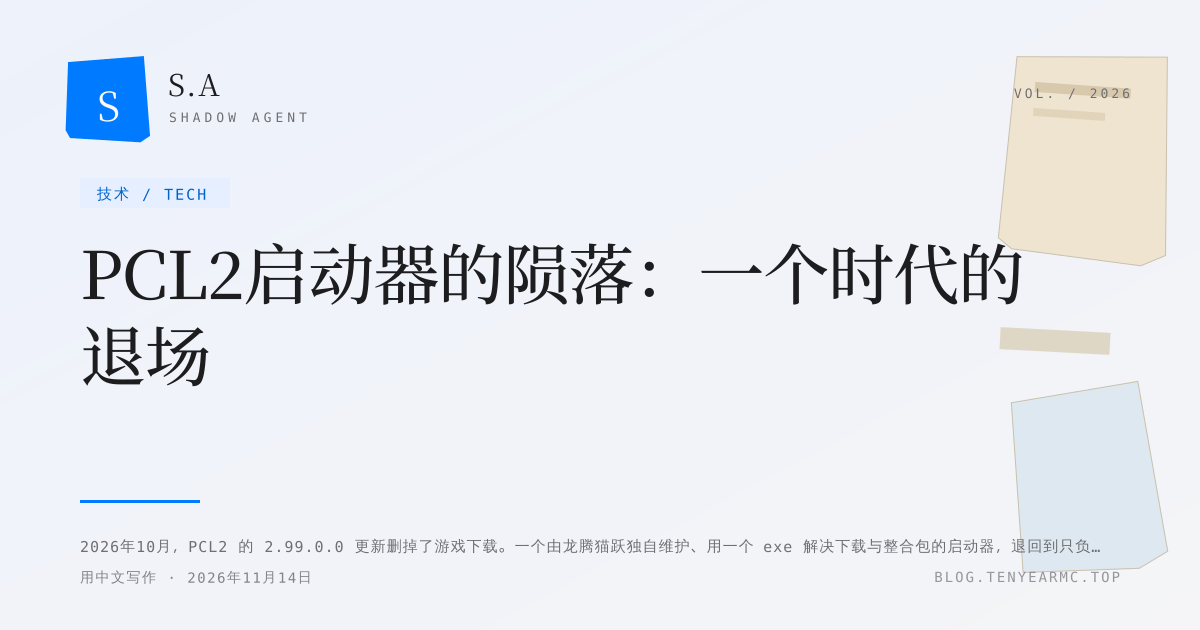
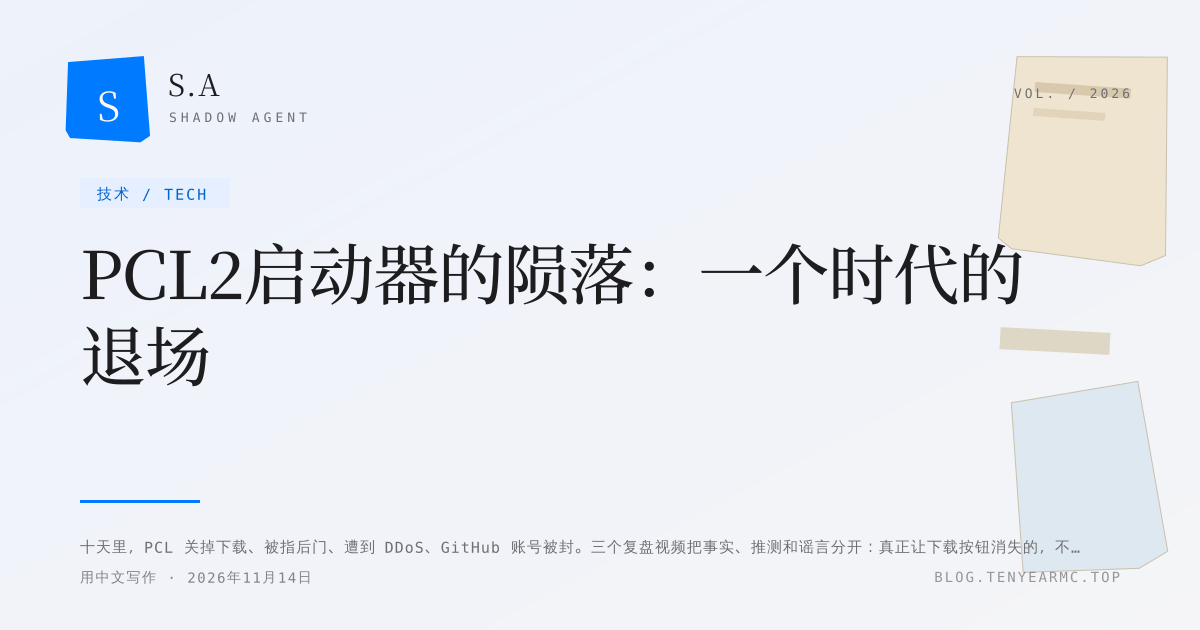
rewrite: 综合三个复盘视频重写 PCL2 事件
补齐十天时间线、法规依据、后门演示与逐帧反驳、DDoS/封号/支付异常，并把事实、推断和谣言分开。

Changed region(s): [[0.0617, 0.8444, 0.925, 0.8746]]

diff --git a/src/data/taxonomy.ts b/src/data/taxonomy.ts
@@ -41,6 +41,9 @@ const knownTags: Record<string, string> = {
   PCL2: 'pcl2',
   启动器: 'launcher',
   社区: 'community',
+  网络出版: 'online-publishing',
+  合规: 'compliance',
+  谣言: 'rumor',
   英伟达: 'nvidia',
   黄仁勋: 'jensen-huang',
   公司治理: 'governance',

diff --git a/src/content/posts/pcl2-launcher.md b/src/content/posts/pcl2-launcher.md
@@ -1,44 +1,145 @@
 ---
 title: PCL2启动器的陨落：一个时代的退场
-description: 2026年10月，PCL2 的 2.99.0.0 更新删掉了游戏下载。一个由龙腾猫跃独自维护、用一个 exe 解决下载与整合包的启动器，退回到只负责启动。
+description: 十天里，PCL 关掉下载、被指后门、遭到 DDoS、GitHub 账号被封。三个复盘视频把事实、推测和谣言分开：真正让下载按钮消失的，不是某一个举报，而是一条一直在那里的法规。
 date: 2026-11-14
+updated: 2026-11-15
 lang: zh
 category: tech
 tags:
   - Minecraft
   - PCL2
   - 启动器
-  - 社区
+  - 网络出版
+  - 合规
+  - 谣言
 series: 告别练习
 seriesOrder: 2
 featured: false
 coverWord: PCL2
 ---
 
-2026年10月20日，PCL2 更新到 2.99.0.0。
+2026年10月20日下午3点01分，PCL 更新到 2.99.0.0。
 
-更新日志的第一条很短：为遵守相关法律法规，不再提供游戏本体下载功能。几天后，2.99.0.1 把下载相关入口也隐藏了。作者龙腾猫跃在说明里写，这不是暂时下架。
+更新说明只有两行。第一行是：为遵守相关法律法规，PCL 不再提供《我的世界》下载功能。第二行是：非常抱歉 qwq。
 
-对不玩 Minecraft 的人来说，这只是一行版本说明。对国内一批 Java 版玩家来说，那个用了很多年的“下载”标签页，没了。
+那个下午之后，国内一批 Java 版玩家打开启动器，发现下载页没了。
 
-PCL 的全称是 Plain Craft Launcher。它是一个 Windows 上的第三方启动器，免费、开源，主要由龙腾猫跃一个人维护。它最早被记住，是因为轻：一个 exe，双击就能跑，不用安装，没有捆绑，没有弹窗广告。它被记住的第二个原因，是下载。
+这不是一次孤立的关停。把三个复盘视频的时间线拼在一起，十天里发生的事，比“家长举报”四个字复杂得多。
 
-在很长一段时间里，国内玩家打开 PCL2 的流程是固定的：下载一个 exe，双击，等它自己更新，然后在下载页选一个版本。Java 不用自己装，Forge、Fabric、NeoForge 不用自己找，模组依赖它会提示，整合包可以一键导入，崩溃了还有分析。它把“玩 Minecraft”之前那一堆麻烦事，收进了一个窗口。
+## 先把十天摊开
 
-这些东西今天听起来像基础设施。但在当时，它们不是。官方启动器需要微软账户和正版授权，网络也不总是顺畅。第三方启动器填补了这段路。PCL2 不是唯一一个，却是最像“一个 exe 解决所有问题”的那个。
+10月16日，PCL 2.14.0.0 的更新记录里已经有一行字：出于合规考虑，暂时移除 PCL 特供版本下载。
 
-2026年10月，社区里开始流传一个说法：有未成年人在某个私服充值，家长举报了私服，也顺手举报了启动器。这个说法没有被官方证实。能确认的是结果：PCL2、HMCL、ZL 等国内第三方启动器相继关闭了游戏本体下载通道；HMCL 在 GitHub 上对国内地区的资源获取加了限制。MineBBS 的信息显示，这次调整不是网易、Mojang 或微软主动干预，而是举报带来的连锁反应。
+“暂时”是重点。合规压力不是10月20日才出现的。
 
-龙腾猫跃在更新说明里提到，GitHub 账号被封禁，CDN 持续遭到攻击，部分平台关停，更新日志只能在夹缝里发布。一个个人开发者，面对的是账号、带宽、分发渠道同时出问题。他没有太多缓冲。
+10月20日15:01，2.99.0.0 发布。21分钟后，HMCL 仓库多了一个 PR，标题是《在中国大陆地区禁用游戏下载功能》，作者是 HMCL 作者本人，一小时十五分钟后合并。BakaXL 那天没动。ZL、PCL CE 陆续跟进。一天之内，国内主流第三方启动器的下载入口集体关闸。
 
-PCL2 没有消失。它仍然可以启动你已经装好的游戏，仍然能管理版本和模组，仍然能导入本地整合包。消失的是那个把游戏本体、Java、模组和整合包一起搬进来的入口。
+三家启动器，三种做法。PCL 在代码里写死一个常量，不判断地区，没有开关，连整合包安装一起封；HMCL 看时区、设备区域、网络出口，两个都指向中国大陆才禁用，整页禁用，功能没删；PCL CE 读 Windows 设备设置区域，只禁大陆。同一条法规，三种执行。
 
-社区版 PCL CE 还在更新。2026年10月20日，PCL CE 2.15.1 发了30项改动，包括内存初始/最大堆分别设置、模组内嵌依赖检测、MultiMC 整合包支持完善、下载器重构。代码没有死，维护也没有完全停下。
+10月21日晚上9点16分，一个59秒的视频上线，标题是《我的世界启动器开发者预留后门展示 远程命令执行攻击》。
 
-但一个时代确实退场了：启动器曾经是内容分发渠道，现在退回成启动器。
+10月22日夜里到23日，PCL 的服务器遭到 DDoS。两个复盘对起点记的不是同一天，但都指向同一个晚上：服务不可用，账单被打穿。
 
-我们这一代玩家评价一个启动器的标准，曾经是“下载快不快”。以后可能要改成“能不能把我已经有的东西启动好”。这个变化听起来很小，其实很大。前者考验的是分发能力，后者考验的是兼容、性能和稳定性。前者可以靠一个按钮完成，后者要靠长期维护。
+10月24日，社区开始做逆向分析和逐帧反驳。
 
-更麻烦的是，一个由个人维护的免费工具，曾经承担了接近基础设施的角色。基础设施一旦被举报、被封禁、被攻击，个人开发者没有多少缓冲。PCL2 的下载按钮消失，不是一个软件的失败。它更像一条边界被重新画了一遍：哪些事情可以由一个免费工具替官方完成，哪些不能。
+10月25日，有启动器恢复下载，其他几家跟进；PCL 在同一天明确：不再恢复。
 
-下次打开 PCL2，你还会看到版本列表、模组管理和启动按钮。只是那个曾经能把整个 MC 世界搬进电脑的标签页，不在了。
+10月26日凌晨，龙腾猫跃发了一篇《关于 PCL 存在所谓后门漏洞的说明》。
+
+十天里，关下载、后门指控、DDoS、GitHub 封号、爱发电支付异常，全挤在一起。它们看起来像一条线，其实不是同一件事。
+
+## 举报：一个流传最广、证据最少的解释
+
+网上最流行的说法是：有个孩子在私服里充了钱，家长要退钱，举报私服的时候把 PCL 一起举报了。
+
+这个故事传得到处都是。但顺着问下去，四个关键问题都没有公开材料：谁充的，充了多少，举报的到底是谁，哪个部门要求关下载。
+
+金额有三种说法：两千七、六千、六万。六万那个是2016年月亮岛和多玩盒子的事，那年还没有 PCL；连监管机构的名字都写错了，“国家新闻出版广电总局”在2018年就改了。
+
+龙腾猫跃在10月20日的说明里写：此事与网易、微软、Mojang 无关，问题出在举报本身。他也做过能查到的动作：爱发电上发过退款公告，9月1日以后的赞助无条件退，退了钱，原来的内容还留着。去年11月联机功能关闭时，他也这么干过一次。
+
+这些能说明举报可能是导火索。它不能说明，举报是下载按钮消失的全部原因。
+
+## 真正的原因：下载一直踩在一条法规上
+
+PCL 关的是下载，不是启动。你已经装好的游戏还能玩。
+
+这个区分很重要。
+
+《网络出版服务管理规定》第二十七条：网络游戏上网出版前，必须审批。第三十二条：境外游戏同样按第二十七条办理。游戏算网络出版物。打开一个已经装好的游戏，是本地行为；把客户端从服务器下载到别人电脑里，在监管那里叫“上网出版”。
+
+网易的中国版有版号，国际版没有。第三方启动器直接提供游戏本体下载，从来没有拿到过任何一方的授权。这不是 PCL 一家的问题，HMCL、ZL、PCL CE 都一样。区别只是执行方式。
+
+一个更具体的解释，来自第二个复盘视频：PCL 和其他启动器在10月25日走向不同道路，原因可能在“赞助功能”。
+
+PCL 的赞助不是单纯打赏，它有对应权益：快照尝鲜、赞助主题选择，固定付款对应固定权益。7月13日的一次讨论里，有协助者把快照版叫做“付费内容”。如果这部分付费权益和下载业务被认定为同一项经营活动，继续开放下载的风险会高得多。其他启动器恢复了下载，PCL 没有。
+
+这个解释不是官方结论，它只是目前最能对得上时间线的一种推断。能确认的是：PCL 的合规更改在10月16日就已经开始。举报最多是让刀落下来的那只手，不是那把刀。
+
+## 后门：演示成立，结论不成立
+
+10月21日的视频里，演示者开了一个虚拟机，先关掉 PCL 更新，自己搭了一个公告服务器，往 PCL 里推后门信息，重启 PCL 让它拉公告，再启动游戏，刷新 C2 面板，看到“上线”和屏幕。
+
+他的结论是：PCL 不是被动合规，是开发者自己留了东西，后面还有别的。
+
+10月24日，另一个复盘视频逐条挑了五个问题：强制更新弹窗已经下完，没法确认后面还是不是旧版；说后门在公告里，却先关公告推送，全程没有一次抓包；C2 面板是 127.0.0.1，远控跑在本机；连上 C2 的进程不是 java.exe，也不是 PCL 的 exe；屏幕捕获会弹 Xbox Game Bar，PCL 代码里没有这个能力。
+
+如果真发现了后门，为什么一个 GitHub Issue 都不提？
+
+10月26日，龙腾猫跃回应。他承认：PCL 的联网配置可以下发“启动前执行命令”。他说这不算漏洞，因为演示的前提是先手动改掉 PCL 的 CDN 内容。CDN 能被改，只有三种情况：网络被黑、腾讯云被黑、电脑被黑。到那一步，直接改更新包就行，何必绕这么大一圈。他用了一个菜刀比方：买了把菜刀，等于在准备用菜刀杀人？
+
+他还说，这个功能是留给紧急修复的：老版本有漏洞、用户又关了更新，可以远程关掉出问题的部分。他称自己从没使用过。2.99.0.1 给设置修改加了黑名单，以后用这类功能会公开通知，并附了360和火绒的检测。
+
+这里要分清三件事：PCL 的配置可能被改；它真的被改过；开发者故意留了后门。
+
+前两件有技术上的可能。第三件，到现在没有证据。
+
+同一周，印度 eMudhra 的八张中间证书私钥出事。10月17日通报，Chrome、Firefox 当天封禁，苹果19号、微软20号跟进。所以“CDN 可能被改”不是幻想。但“可能被改”不等于“开发者留了后门”。
+
+## DDoS、封号、爱发电：真的发生了，不等于知道是谁
+
+DDoS 的数字来自龙腾猫跃的后台：一分钟1.54亿次请求，一天之内单个域名被请求21亿次，带宽是前一天的70多倍，参与攻击的 IP 超过1万个。
+
+这些数字没有第三方监测报告。
+
+那天晚上，他发了两条动态：18:30，遭受大规模 DDoS，部分服务不可用；21:19，账单被打穿，溢出4674元，余额变负，十分钟后充了5000，直接损失超过6000；22:05，准备报警，收集线索，不要在评论区开盒。
+
+谁打的，不知道。他自己也说，和前两天的事有没有关系，很难说。
+
+10月23日，他的 GitHub 账号被封。10月24日，爱发电出现支付问题。10月26日的说明里，他写：“由于我的 GitHub 账号均已被封禁，我无法通过 GitHub 发布此文章。”
+
+封号原因，他没说。爱发电那边，到现在没给说法。
+
+这些是真的。但“真的发生了”不等于“知道是谁干的”。
+
+十天里，有人把2016年的旧闻翻出来当这次的起因，有人拍角色扮演“我将扮演家长举报 PCL”，有人十二秒发一条“真凶找到了”，有人去开盒。还有营销号：先免费提供 DDoS 防御，再开发防护系统，最后说找到凶手，简介里都挂着自己的网站。
+
+这些跟证据都没关系。
+
+## 为什么一个下载按钮会让这么多人破防
+
+因为第三方启动器不只是免费玩家的入口。
+
+视频里引用了一个论坛调查：国内正版玩家可能不到十分之一，接触过游戏的用户保守估计在三千万以上。这个数字是估计，不是官方统计。但它指向一个结构：很多人第一次进入 MC，用的就是第三方启动器。
+
+官方启动器需要微软账户、正版授权，网络也不总是顺畅。有人买了正版，官方启动器疯狂报错，最后绕一圈还是回到 PCL 才能正常玩。想装光影和模组，官方渠道折腾半天搞不定。对不是程序员的人来说，这个过程太累了。
+
+网易版免费入场，但模组、皮肤、光影要钱，资源要审核，外部模组不能自由导入，启动器还重。视频把这种免费概括为“把人领进门，然后处处设卡”。第三方启动器的免费是“工具免费，生态开放”：PCL2、HMCL 本身不收钱，没有广告，没有会员，接的是 CurseForge、Modrinth 的模组生态。
+
+所以，关下载伤到的不是“不买正版的人”。正版玩家也在用 PCL 绕开官方启动器的报错、装模组。免费玩家失去了最顺手的入口，正版玩家失去了最好用的工具，开发者失去了安心维护的空间。
+
+## 最后
+
+三个复盘视频，最后给出的判断并不完全相同。
+
+一个说，这是一个靠灰色便利运转的生态被按下了清算键；一个说，真正导致下载功能关闭的元凶是 PCL 自己；一个说，关下载是因为那条法规一直在那，后门是真有人演示但演示不成立，被打是真事但打的人不知道，封号也是真事但为什么封不知道。
+
+把三种说法放在一起，能站住的结论只有一句：下载按钮不是被某一个坏人按掉的。它一直站在一条没有授权的分发链上，举报、后门指控、DDoS、封号、营销号，只是在同一个十天里一起挤了过来。
+
+PCL 还在。已经装好的游戏还能启动，版本和模组还能管理。消失的是那个不需要授权，就能把整个 MC 世界装进电脑的入口。
+
+小林呀awa 那句话，我记到现在：
+
+“法规一直在那，举报只是让刀落下来的那只手。”
+
+这一次，刀落在下载按钮上。PCL 还在，按钮没了。
